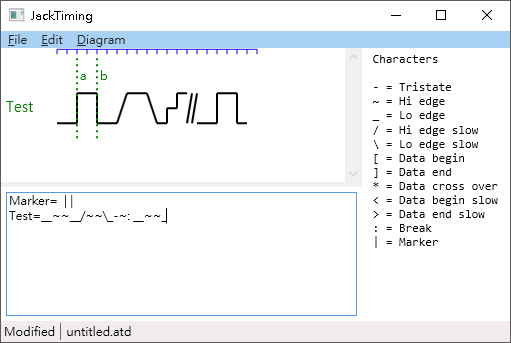
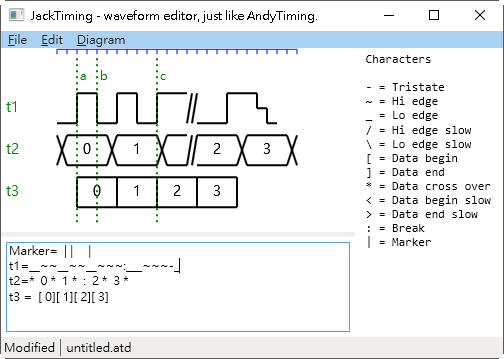
Fix drawing special char's bug

diff --git a/JackTiming/Helper/TimingCharacterDrawer.cs b/JackTiming/Helper/TimingCharacterDrawer.cs
@@ -73,6 +73,7 @@ namespace JackTiming
                     c.ToString(),
                     new Point(verticalLine.X1 - 2, verticalLine.Y1 + 5),
                     12,
+                    HorizontalAlignment.Left,
                     Brushes.Green);
 
                 Canvas.Children.Add(verticalLine);
@@ -89,6 +90,7 @@ namespace JackTiming
                 _timingMap.Symbol,
                 new Point(0, DrawParam.StartY + (_lineIndex * DrawParam.UnitY)),
                 14,
+                HorizontalAlignment.Left,
                 Brushes.Green);
 
             // draw elements
@@ -125,6 +127,7 @@ namespace JackTiming
                             new Point(element.TopLeftPoint.X,
                                 element.TopLeftPoint.Y),
                             14,
+                            HorizontalAlignment.Center,
                             Brushes.Black);
 
                     Canvas.Children.Add(line);
@@ -155,7 +158,13 @@ namespace JackTiming
                 if (_timingMap.Elements[i - 1].Lines == null)
                     continue;
 
+                if (_timingMap.Elements[i - 1].Lines.Count < 1)
+                    continue;
+
                 if (_timingMap.Elements[i].Lines == null)
+                    continue;
+
+                if (_timingMap.Elements[i].Lines.Count < 1)
                     continue;
 
                 var line = new Line

diff --git a/JackTiming/Helper/GraphicHelper.cs b/JackTiming/Helper/GraphicHelper.cs
@@ -7,6 +7,9 @@ using System.Windows.Media.Imaging;
 
 namespace JackTiming
 {
+    /// <summary>
+    /// Functions about graphics process, all come from net.
+    /// </summary>
     public static class GraphicHelper
     {
         /// <summary>
@@ -66,7 +69,8 @@ namespace JackTiming
         // Position a label at the indicated point.
         public static void DrawText(Canvas can, string text, Point location,
             double font_size,
-            //HorizontalAlignment halign, VerticalAlignment valign, 
+            HorizontalAlignment halign, 
+            //VerticalAlignment valign, 
             Brush color)
         {
             // Make the label.
@@ -80,10 +84,10 @@ namespace JackTiming
             label.Measure(new Size(double.MaxValue, double.MaxValue));
 
             var x = location.X;
-            //if (halign == HorizontalAlignment.Center)
-            //    x -= label.DesiredSize.Width / 2;
-            //else if (halign == HorizontalAlignment.Right)
-            //    x -= label.DesiredSize.Width;
+            if (halign == HorizontalAlignment.Center)
+                x -= label.DesiredSize.Width / 2;
+            else if (halign == HorizontalAlignment.Right)
+                x -= label.DesiredSize.Width;
             Canvas.SetLeft(label, x);
 
             var y = location.Y;

diff --git a/Readme.md b/Readme.md
@@ -1,10 +1,12 @@
 #JackTiming
 
-This is a project just like AndyTiming.
+This is a project just like AndyTiming, based on C# + Wpf + MvvmLight.
 
-As recently I need to draw some simple diagram, I use AndyTiming first, but it's some problem when showing some characters in windows 10, I decided to write my own.
+As recently I need to draw some simple diagram, I use AndyTiming first, but got problems when showing some characters in windows 10, I decided to write my own.
 
-This is still in early progress, some features are not implemented, I'll keep going later on.
+All the functions are nearly done, enjoy if you needed it!
 
 Screen: 
+
 ![screen1](/JackTiming/Images/Screen1.png)
+
